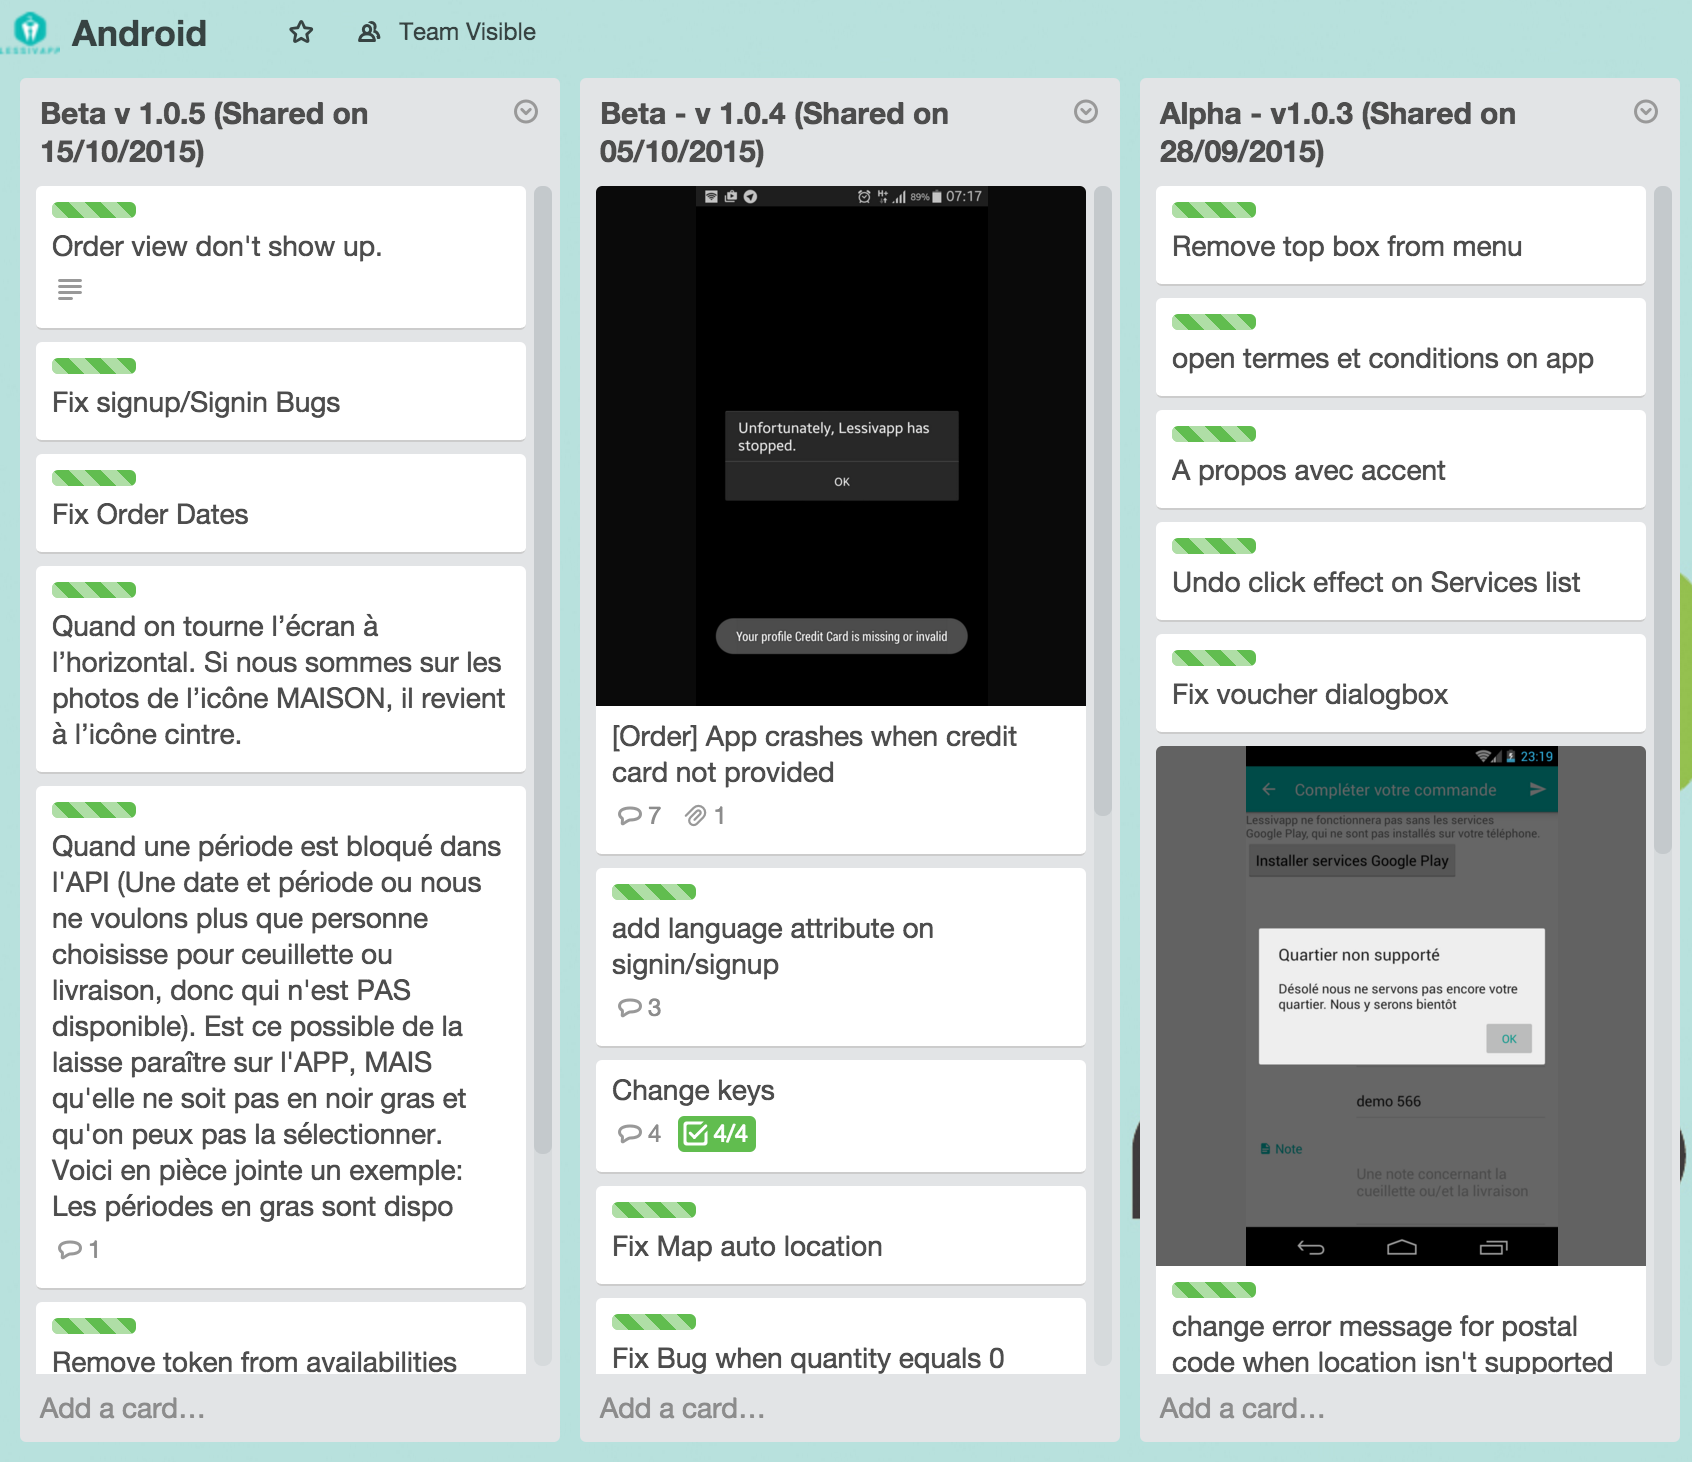
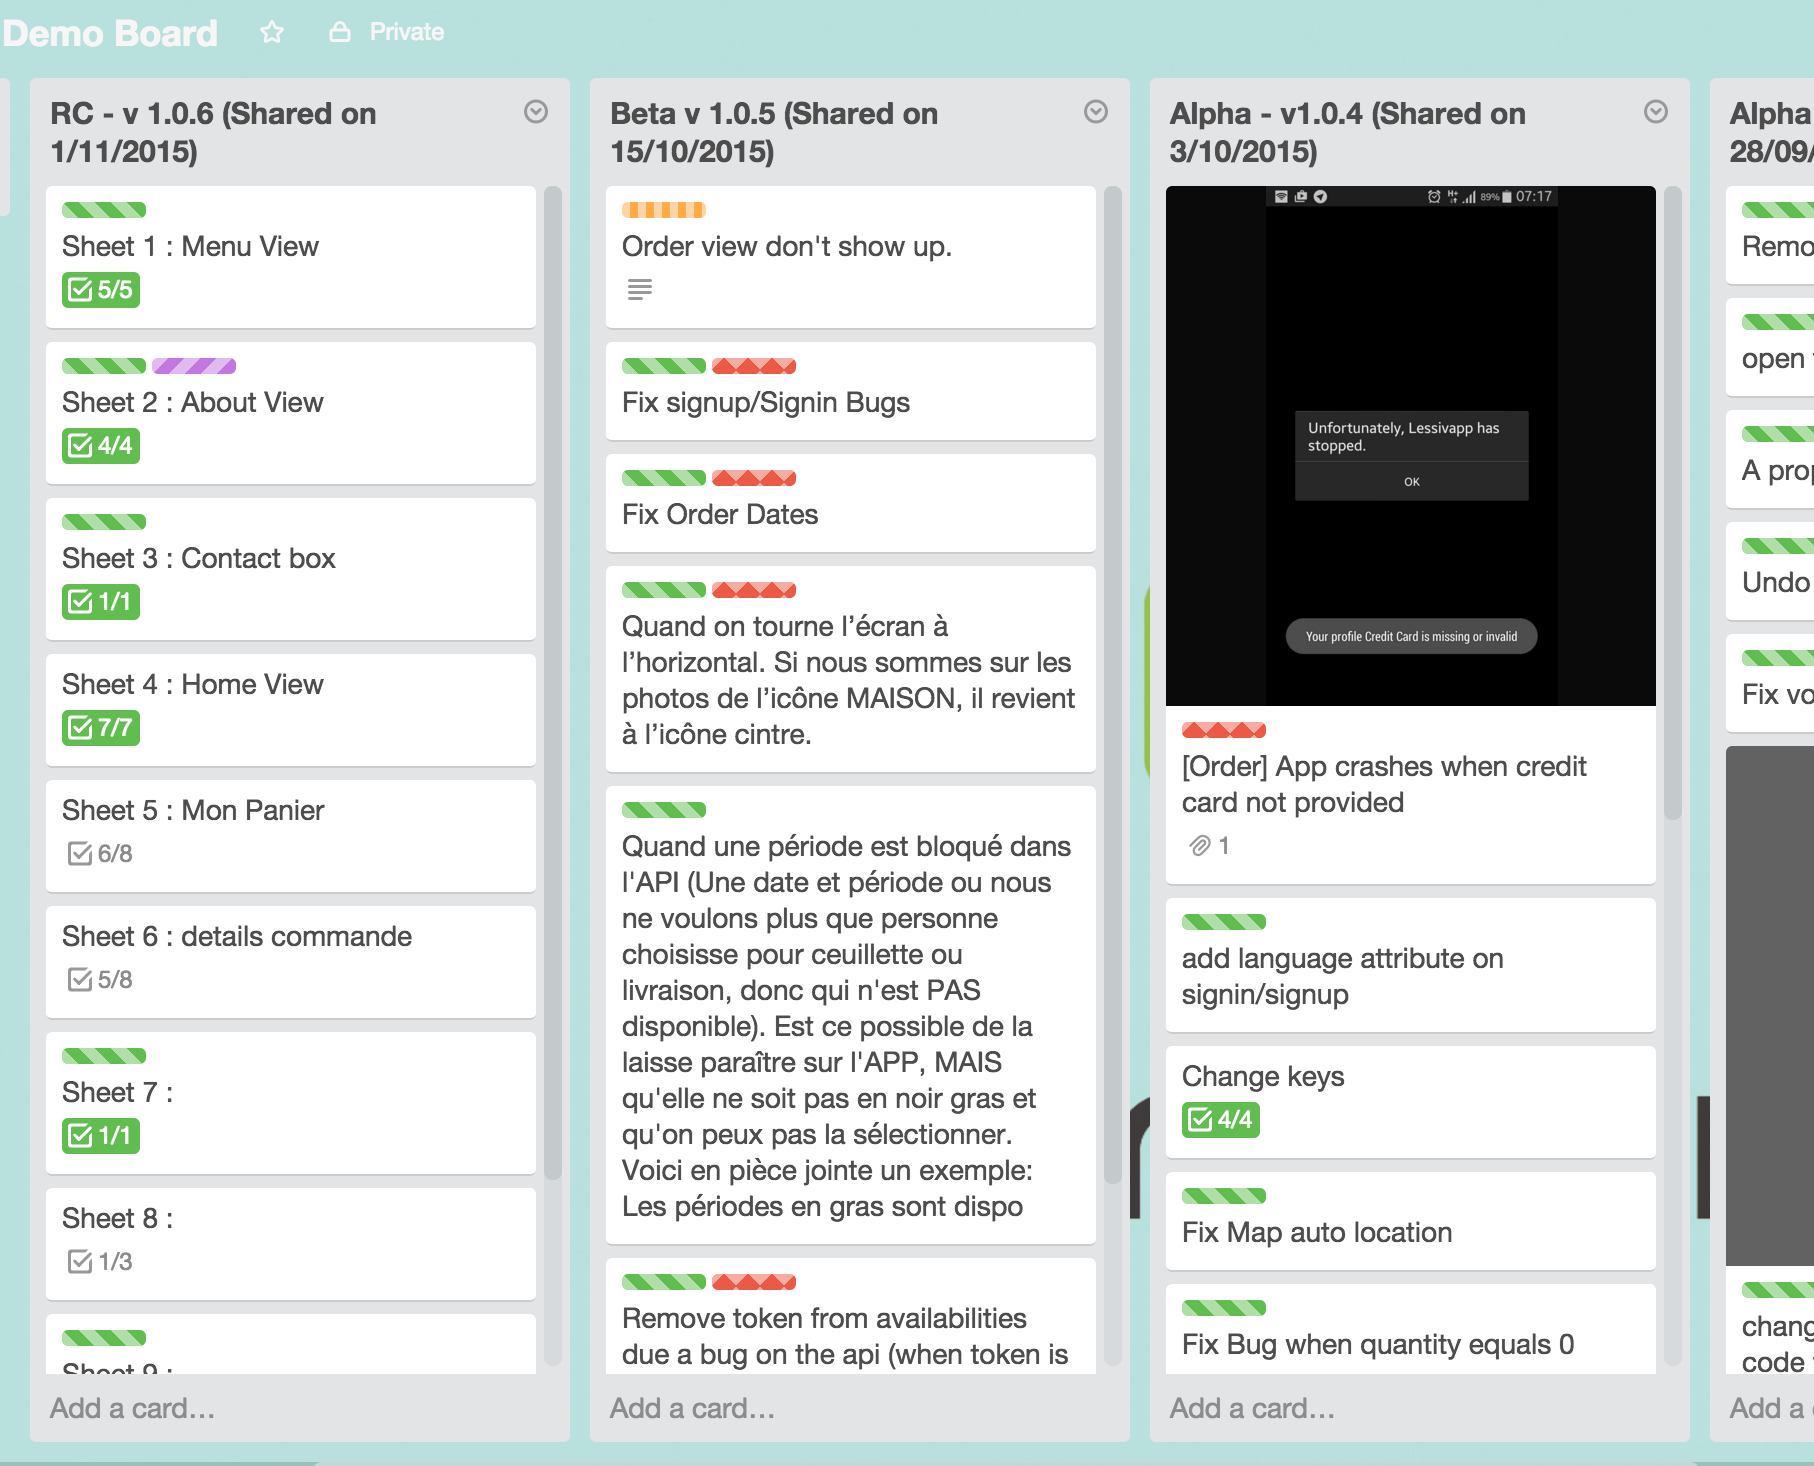
add new article about trello for mobile developers

diff --git a/_posts/2015-12-09-trello-for-mobile-developers.md b/_posts/2015-12-09-trello-for-mobile-developers.md
@@ -1,0 +1,50 @@
+---
+title: "Trello for Mobile developers"
+date: 2015-12-09 00:31:47
+description: "An efficient solution that relies on using Trello vertically with custom labels"
+---
+Trello, as everyone knows, is a great project management tool, it's really easy and extremely flexible to fit many needs from digital work to daily life tasks.
+
+Today, I want to expand that flexibility in the way to make it more gratefully for mobile developers Android and iOS.
+The normal use case consists of using 3 default lists: `to-do`, `doing`, `done` which are correct and let us manage our tasks gratefully. 
+
+<img src="https://d2k1ftgv7pobq7.cloudfront.net/meta/u/res/images/d1e04e4b8e9f93a9671be5dc719b4f79/guide-board.png" alt="Trello" width="100%"/>
+
+However on the mobile development field, doing this same manipulation will make us lose tracking of changes between versions. I mean how do you keep track of what you're working on in this version, what was already shipped and finally what it's planned for later.  
+ 
+For these needs, I've opted for an **alternative solution** that relies on using Trello vertically and it's resumed in 3 processes:  
+
+- Creating new lists as many as our app versions  
+- Renaming these lists according to a specific convention 
+- Applying labels for each card according to the work status or type (working on, done, UI, bug ...)  
+
+
+Let's see it in pictures:
+
+<img src="{{ site.baseurl }}assets/images/trello_for_mobiledev.png" alt="Trello for mobile developers" />
+
+As you saw, each list is versioned, named according to app version, respecting the following convention: `version name` - `version code` - `Shared + date of sharing`  
+eg: `Beta - v0.4 (Shared on 01/01/2016)`  
+The last `Shared on` item expresses if the app was shared with the client or even deployed on the store with the specified date of this action.
+That's a basic convention that I'd recommend, but of course, you could tweak it as you like to match your needs.
+
+Let's see labels: 
+ 
+<img src="{{ site.baseurl }}assets/images/trello_labels_for_mobiledev.png" alt="Trello Labels" width="200"/>  
+As you noticed before, we're no longer using default lists to indicate the status of our work since their role have changed to handle tasks relating to app versions.  
+We'll substitute this lack by using labels which go perfectly with our case. Mandatory ones that should be available in any project are :  
+
+- Doing
+- Done  
+
+These, are basic, add new labels as many as you need `UI`, `UX` or even `Bug` ...
+
+### Bonus  
+
+One more great thing, that's this new way of managing my Trello saved me time to mark which changes are made in each version, so no more worries about Changelogs on Google Play or AppStore. Here is an example taken from *Clean Master* app.
+
+<img src="{{ site.baseurl }}assets/images/cleanmaster_changelog.png" alt="Clean Master" width="300"/>  
+
+
+Hope this technique could improve your development workflow.
+Let me know what's your favorite way of managing such projects ?
